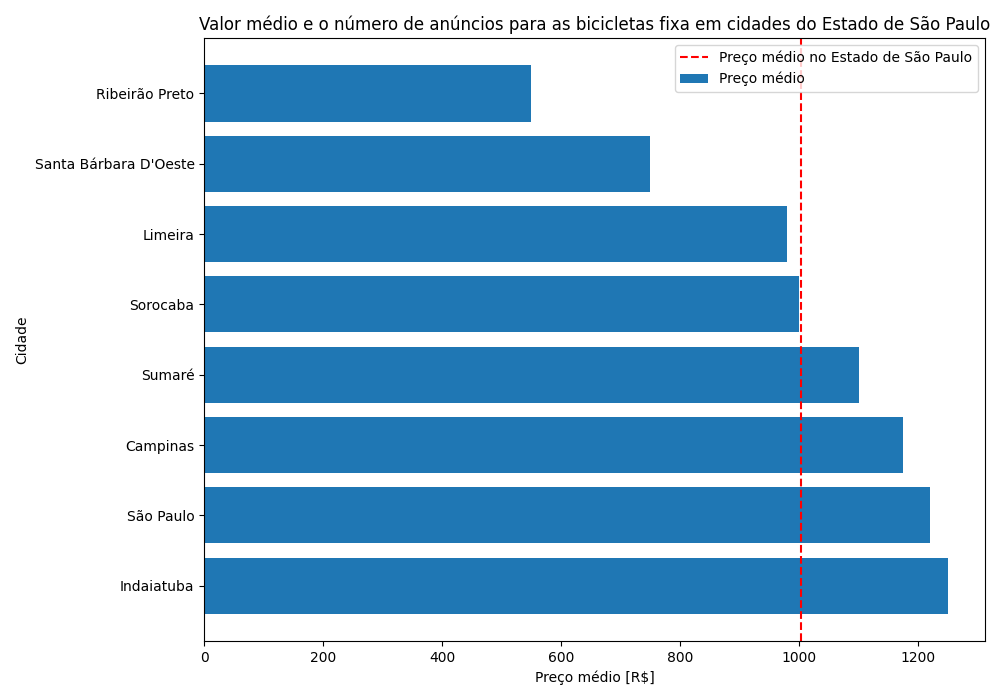
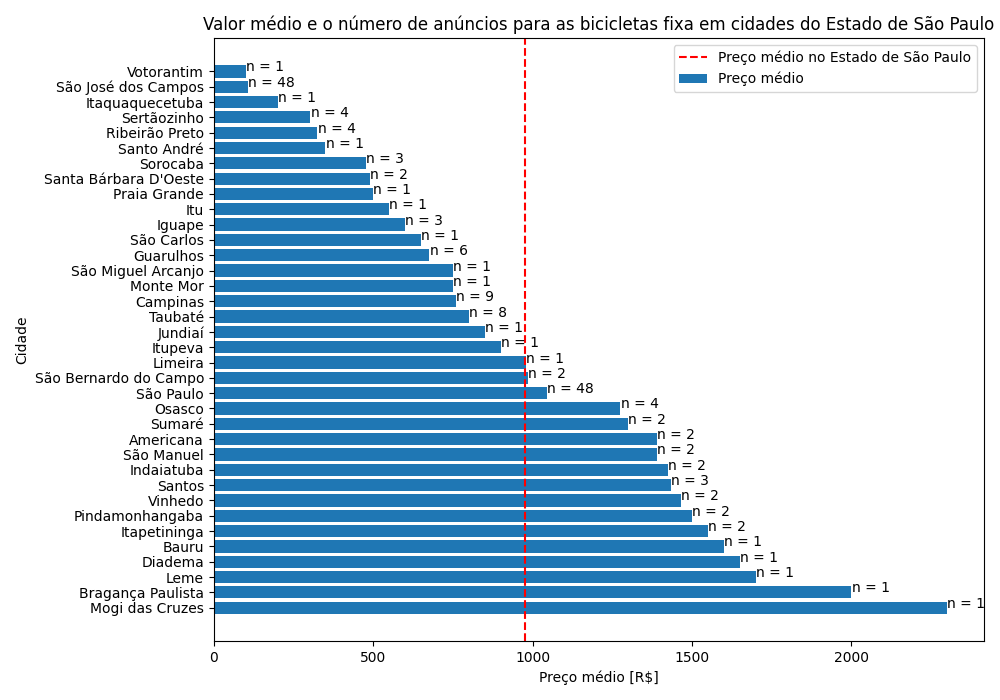
new analysis
new analysis

diff --git a/analysis_bikes.py b/analysis_bikes.py
@@ -2,7 +2,11 @@
 import matplotlib.pyplot as plt
 import numpy as np
 import pandas as pd
-
+"""
+This code is performing several data cleaning and manipulation tasks on a CSV file. It starts by reading in a file with the given name and dropping any duplicate or empty rows.
+Then, it filters the data to only include rows where the "nameBike" column contains any of the specified related words. The cleaned data is then saved to a new CSV file. 
+Additionally, it converts the "valueBike" column to a numeric data type and creates boxplots and bar charts to show statistics and information about the cleaned data. Finally, it exports the data to a markdown file.
+"""
 
 
 def clean_data(name = ""):
@@ -24,11 +28,7 @@ def related_res(data, name, related_words):
     related_words_out  = set(related_words).union(set(related_word_cap).union(set(related_word_upper)) ) 
     related_words_out  = sorted(related_words_out)
 
-    for i in data.index:
-        if any(word_i in data['nameBike'][i] for word_i in related_words_out):
-            continue
-        else:
-            data.drop(i, inplace=True)
+    data = data[data['nameBike'].apply(lambda x: any(word_i in x for word_i in related_words_out))]
 
     data.reset_index(inplace=True,drop=True)
     
@@ -73,6 +73,10 @@ if len(means) > 5:
 
     ax.barh(means.index, means.values, label='Preço médio')
     ax.axvline(means.mean(), color = 'red',ls = 'dashed', label='Preço médio no Estado de São Paulo')
+
+    for i, city in enumerate(means.index):
+        ax.text(means[city] +1, i, "n = "+str(counts_anuncios[city]))
+
     ax.set_xlim(0,ax.get_xlim()[1])
     ax.set_ylabel('Cidade')
     ax.set_xlabel('Preço médio [R$]')
@@ -92,27 +96,3 @@ plt.tight_layout()
 plt.savefig("./images/median_price_of_bike.png")
 # plt.show()
 # exit()
-
-plt.figure(figsize=(10, 7))
-ax = plt.axes()
-
-if len(means) > 5:
-
-    ax.barh(counts_anuncios.index, counts_anuncios.values, label='Número de anúncios por cidade de bike fixa no Estado de São Paulo')
-    ax.set_xlim(0,ax.get_xlim()[1])
-    ax.set_ylabel('Cidade')
-    ax.set_xlabel('Número de anúncios')
-
-else:
-    
-    ax.bar(counts_anuncios.index, counts_anuncios.values, label='Número de anúncios por cidade de bike fixa no Estado de São Paulo')
-    ax.set_ylim(0,ax.get_ylim()[1])
-    ax.set_xlabel('Cidade')
-    ax.set_ylabel('Número de anúncios')
-
-
-ax.set_title('Número de anúncios de bicicletas fixa nas cidades do Estado de São Paulo')
-
-plt.tight_layout()
-plt.savefig("./images/number_of_ads_bycity.png")
-# plt.show()

diff --git a/busca_bike_dados.md b/busca_bike_dados.md
@@ -1,8 +1,114 @@
-| dayPost   | nameBike                                                       | city                  |   valueBike | urlBike                                                                                                                  |
-|:----------|:---------------------------------------------------------------|:----------------------|------------:|:-------------------------------------------------------------------------------------------------------------------------|
-| 02/01     | Oportunidade - Bike single speed "Caixinha" - BAIXOU O PREÇO   | Sorocaba              |        1000 | https://sp.olx.com.br/regiao-de-sorocaba/ciclismo/oportunidade-bike-single-speed-caixinha-baixou-o-preco-1127927801      |
-| 22/01     | Bike fixa Tetrapode                                            | Limeira               |         980 | https://sp.olx.com.br/grande-campinas/ciclismo/bike-fixa-tetrapode-1132508391                                            |
-| 26/12     | Bike fixa usada                                                | São Paulo             |         900 | https://sp.olx.com.br/sao-paulo-e-regiao/ciclismo/bike-fixa-usada-1125830217                                             |
-| 06/01     | Bicicleta alumínio single ou fixa Caloi                        | São Paulo             |         800 | https://sp.olx.com.br/sao-paulo-e-regiao/ciclismo/bicicleta-aluminio-single-ou-fixa-caloi-1130021223                     |
-| 10/01     | Caloi 10 quadro,aro 700 e freio shimano para montar fixed gear | Santa Bárbara D'Oeste |         750 | https://sp.olx.com.br/grande-campinas/ciclismo/caloi-10-quadro-aro-700-e-freio-shimano-para-montar-fixed-gear-1131556869 |
-| 28/12     | Bike fixa                                                      | Ribeirão Preto        |         550 | https://sp.olx.com.br/regiao-de-ribeirao-preto/ciclismo/bike-fixa-1126484097                                             |
+| dayPost   | nameBike                                                                                   | city                  |   valueBike | urlBike                                                                                                                                                              |
+|:----------|:-------------------------------------------------------------------------------------------|:----------------------|------------:|:---------------------------------------------------------------------------------------------------------------------------------------------------------------------|
+| 26/12     | Bike fixa usada                                                                            | São Paulo             |         900 | https://sp.olx.com.br/sao-paulo-e-regiao/ciclismo/bike-fixa-usada-1125830217                                                                                         |
+| 26/12     | Bicicleta Viking aro 26                                                                    | Itupeva               |         900 | https://sp.olx.com.br/sao-paulo-e-regiao/ciclismo/bicicleta-viking-aro-26-1107253088                                                                                 |
+| 22/01     | Suporte de Bike de Teto - Tipo Ventosa                                                     | São Paulo             |         900 | https://sp.olx.com.br/sao-paulo-e-regiao/ciclismo/suporte-de-bike-de-teto-tipo-ventosa-1129968278                                                                    |
+| 03/01     | Bicicleta Infantil VR Track                                                                | Jundiaí               |         850 | https://sp.olx.com.br/sao-paulo-e-regiao/ciclismo/bicicleta-infantil-vr-track-1128667816                                                                             |
+| 06/01     | Bicicleta alumínio single ou fixa Caloi                                                    | São Paulo             |         800 | https://sp.olx.com.br/sao-paulo-e-regiao/ciclismo/bicicleta-aluminio-single-ou-fixa-caloi-1130021223                                                                 |
+| 10/01     | Caloi 10 quadro,aro 700 e freio shimano para montar fixed gear                             | Santa Bárbara D'Oeste |         750 | https://sp.olx.com.br/grande-campinas/ciclismo/caloi-10-quadro-aro-700-e-freio-shimano-para-montar-fixed-gear-1131556869                                             |
+| 18/01     | Vendo Caloi 10 anos 80 Fixa Contra Pedal                                                   | Monte Mor             |         750 | https://sp.olx.com.br/grande-campinas/ciclismo/vendo-caloi-10-anos-80-fixa-contra-pedal-1135328773                                                                   |
+| 08/01     | Suporte de bicicleta Thule Passage 910XT 2 Bike                                            | São Miguel Arcanjo    |         749 | https://sp.olx.com.br/regiao-de-sorocaba/ciclismo/suporte-de-bicicleta-thule-passage-910xt-2-bike-1112428059                                                         |
+| 22/01     | Bicicleta aro 20 Seminova marca Decatlon                                                   | São José dos Campos   |         700 | https://sp.olx.com.br/vale-do-paraiba-e-litoral-norte/ciclismo/bicicleta-aro-20-seminova-marca-decatlon-1128946480                                                   |
+| 21/01     | Sprint 10 ano 82                                                                           | São Carlos            |         650 | https://sp.olx.com.br/regiao-de-ribeirao-preto/ciclismo/sprint-10-ano-82-1133854242                                                                                  |
+| 12/01     | Suporte para bicicleta ABSOLUT (NOVA)                                                      | Iguape                |         600 | https://sp.olx.com.br/baixada-santista-e-litoral-sul/ciclismo/suporte-para-bicicleta-absolut-nova-1132628483                                                         |
+| 12/01     | Suporte para bicicleta ABSOLUT NOVA                                                        | Iguape                |         600 | https://sp.olx.com.br/baixada-santista-e-litoral-sul/ciclismo/suporte-para-bicicleta-absolut-nova-1132629204                                                         |
+| 12/01     | Suporte para bicicleta ABSOLUT (nova)                                                      | Iguape                |         600 | https://sp.olx.com.br/baixada-santista-e-litoral-sul/ciclismo/suporte-para-bicicleta-absolut-nova-1132622586                                                         |
+| 20/01     | Suporte thule                                                                              | Itu                   |         550 | https://sp.olx.com.br/sao-paulo-e-regiao/ciclismo/suporte-thule-1136325540                                                                                           |
+| 28/12     | Bike fixa                                                                                  | Ribeirão Preto        |         550 | https://sp.olx.com.br/regiao-de-ribeirao-preto/ciclismo/bike-fixa-1126484097                                                                                         |
+| 18/01     | Gt Sprint, nova, praticamente não usei                                                     | Campinas              |         520 | https://sp.olx.com.br/grande-campinas/ciclismo/gt-sprint-nova-praticamente-nao-usei-1135196977                                                                       |
+| 12/01     | Bicicleta Beach Bike Caiçara                                                               | Praia Grande          |         500 | https://sp.olx.com.br/baixada-santista-e-litoral-sul/ciclismo/bicicleta-beach-bike-caicara-1114436453                                                                |
+| 29/12     | Suporte p/ 3 Bikes - Transbike Eqmax.                                                      | Osasco                |         500 | https://sp.olx.com.br/sao-paulo-e-regiao/ciclismo/suporte-p-3-bikes-transbike-eqmax-1127108542                                                                       |
+| 16/01     | Caloi 10 Sprint, com quadro aros e pneus tudo novo.                                        | Sertãozinho           |         500 | https://sp.olx.com.br/regiao-de-ribeirao-preto/ciclismo/caloi-10-sprint-com-quadro-aros-e-pneus-tudo-novo-1113430983                                                 |
+| 21/01     | Rack Suporte para Bike 3 Bicicletas Porta Mala ZX Eqmax<br>                                | Ribeirão Preto        |         499 | https://sp.olx.com.br/regiao-de-ribeirao-preto/ciclismo/rack-suporte-para-bike-3-bicicletas-porta-mala-zx-eqmax-br-1128629839                                        |
+| 09/01     | Cadeirinha Bike Bobike Exclusive Tour Fixa Quadro Traseira                                 | Sertãozinho           |         450 | https://sp.olx.com.br/regiao-de-ribeirao-preto/ciclismo/cadeirinha-bike-bobike-exclusive-tour-fixa-quadro-traseira-1099732497                                        |
+| 06/01     | Rolo Fixo de Treino High One                                                               | Campinas              |         450 | https://sp.olx.com.br/grande-campinas/ciclismo/rolo-fixo-de-treino-high-one-1032048106                                                                               |
+| 25/12     | Rolo De Treino Ciclismo Absolute Wild 8 Magnético Aro 27 -29                               | São Paulo             |         420 | https://sp.olx.com.br/sao-paulo-e-regiao/ciclismo/rolo-de-treino-ciclismo-absolute-wild-8-magnetico-aro-27-29-1106501883                                             |
+| 05/01     | Pedal de encaixe Clip Bicicleta Mountain-Bike Shimano M520 Preto Com Taquinhos Sh-51 1277  | São José dos Campos   |         405 | https://sp.olx.com.br/vale-do-paraiba-e-litoral-norte/ciclismo/pedal-de-encaixe-clip-bicicleta-mountain-bike-shimano-m520-preto-com-taquinhos-sh-51-1277-1030409572  |
+| 07/01     | Cubo k7 Campagnolo Mirage                                                                  | São Paulo             |         399 | https://sp.olx.com.br/sao-paulo-e-regiao/ciclismo/cubo-k7-campagnolo-mirage-1130390347                                                                               |
+| 06/01     | Passador Shimano Deore XT M780 I-Spec 2 e 3x10 velocidades - Usado 8862                    | São José dos Campos   |         396 | https://sp.olx.com.br/vale-do-paraiba-e-litoral-norte/ciclismo/passador-shimano-deore-xt-m780-i-spec-2-e-3x10-velocidades-usado-8862-1028488988                      |
+| 21/01     | Transbike / Rack para Bike                                                                 | São José dos Campos   |         390 | https://sp.olx.com.br/vale-do-paraiba-e-litoral-norte/ciclismo/transbike-rack-para-bike-1130281460                                                                   |
+| 22/01     | coroas Miche Advanced 144bcd                                                               | São Paulo             |         380 | https://sp.olx.com.br/sao-paulo-e-regiao/ciclismo/coroas-miche-advanced-144bcd-1127895624                                                                            |
+| 12/01     | Rolo de Treinamento Absolulte Wild 5                                                       | São Paulo             |         370 | https://sp.olx.com.br/sao-paulo-e-regiao/ciclismo/rolo-de-treinamento-absolulte-wild-5-1132791632                                                                    |
+| 22/01     | Rolo De Treino Absolute Wild 8 Bike Magnético Fixo C/ Ajuste                               | São Paulo             |         360 | https://sp.olx.com.br/sao-paulo-e-regiao/ciclismo/rolo-de-treino-absolute-wild-8-bike-magnetico-fixo-c-ajuste-1132584918                                             |
+| 21/01     | SUPORTE PARA BIKE EQMAX DE ENGATE                                                          | Taubaté               |         350 | https://sp.olx.com.br/vale-do-paraiba-e-litoral-norte/ciclismo/suporte-para-bike-eqmax-de-engate-1128449491                                                          |
+| 19/01     | Transbike 3 bicicletas                                                                     | Santo André           |         350 | https://sp.olx.com.br/sao-paulo-e-regiao/ciclismo/transbike-3-bicicletas-1135652506                                                                                  |
+| 11/01     | Rolos de treino novos e semi novos speed e mtb                                             | São José dos Campos   |         349 | https://sp.olx.com.br/vale-do-paraiba-e-litoral-norte/ciclismo/rolos-de-treino-novos-e-semi-novos-speed-e-mtb-1132002718                                             |
+| 22/01     | Eqmax ZX / Transbike / Suporte de Bike Porta Malas                                         | São Paulo             |         330 | https://sp.olx.com.br/sao-paulo-e-regiao/ciclismo/eqmax-zx-transbike-suporte-de-bike-porta-malas-1134934625                                                          |
+| 13/01     | Quadro bike caloi 10                                                                       | São Paulo             |         320 | https://sp.olx.com.br/sao-paulo-e-regiao/ciclismo/quadro-bike-caloi-10-1132930592                                                                                    |
+| 12/01     | Porta Bike Teto Velox Eqmax / semi novo                                                    | São Paulo             |         300 | https://sp.olx.com.br/sao-paulo-e-regiao/ciclismo/porta-bike-teto-velox-eqmax-semi-novo-1125060356                                                                   |
+| 29/12     | Rolo de Treinamento Wild 8 - Absolut                                                       | Osasco                |         300 | https://sp.olx.com.br/sao-paulo-e-regiao/ciclismo/rolo-de-treinamento-wild-8-absolut-1126990780                                                                      |
+| 05/01     | Mesa Gran Compe Dia Compe Standard                                                         | São Paulo             |         300 | https://sp.olx.com.br/sao-paulo-e-regiao/ciclismo/mesa-gran-compe-dia-compe-standard-1111601102                                                                      |
+| 04/01     | Rolo de treino fixo Alt Cicle com regulagem para bicicleta Speed e MTB                     | Taubaté               |         300 | https://sp.olx.com.br/vale-do-paraiba-e-litoral-norte/ciclismo/rolo-de-treino-fixo-alt-cicle-com-regulagem-para-bicicleta-speed-e-mtb-1129026706                     |
+| 10/01     | Suporte Cavalete para Manutenção de Bikes Portátil com Bandeja para Ferramentas 6575       | São José dos Campos   |         300 | https://sp.olx.com.br/vale-do-paraiba-e-litoral-norte/ciclismo/suporte-cavalete-para-manutencao-de-bikes-portatil-com-bandeja-para-ferramentas-6575-923933472        |
+| 22/12     | Suporte para bike de engate semi novo!!                                                    | Sorocaba              |         280 | https://sp.olx.com.br/regiao-de-sorocaba/ciclismo/suporte-para-bike-de-engate-semi-novo-1124772659                                                                   |
+| 10/01     | Pedal de encaixe Clip Bike Mountain-Bike Wellgo M919 Preto C/ Taquinhos tipo Shimano 5439  | São José dos Campos   |         271 | https://sp.olx.com.br/vale-do-paraiba-e-litoral-norte/ciclismo/pedal-de-encaixe-clip-bike-mountain-bike-wellgo-m919-preto-c-taquinhos-tipo-shimano-5439-924773056    |
+| 27/12     | Rolo de treino                                                                             | Santa Bárbara D'Oeste |         230 | https://sp.olx.com.br/grande-campinas/ciclismo/rolo-de-treino-1120441834                                                                                             |
+| 12/01     | Capacete Ciclismo Preto Bike Mtb Specialized Ajustável                                     | Itaquaquecetuba       |         200 | https://sp.olx.com.br/sao-paulo-e-regiao/ciclismo/capacete-ciclismo-preto-bike-mtb-specialized-ajustavel-1132608726                                                  |
+| 22/01     | Suporte traseiro engate 2 bicicletas / bikes                                               | Ribeirão Preto        |         190 | https://sp.olx.com.br/regiao-de-ribeirao-preto/ciclismo/suporte-traseiro-engate-2-bicicletas-bikes-1128033681                                                        |
+| 11/01     | Pedal de encaixe Clip Mountain-Bike Vicini MT530 Preto Com Taquinhos tipo Shiman (9106)    | São José dos Campos   |         180 | https://sp.olx.com.br/vale-do-paraiba-e-litoral-norte/ciclismo/pedal-de-encaixe-clip-mountain-bike-vicini-mt530-preto-com-taquinhos-tipo-shiman-9106-945762338       |
+| 22/01     | Cadeirinha Infantil Bicicleta Kalf Baby Bike Dianteira Preta                               | São Paulo             |         180 | https://sp.olx.com.br/sao-paulo-e-regiao/ciclismo/cadeirinha-infantil-bicicleta-kalf-baby-bike-dianteira-preta-1133630520                                            |
+| 03/01     | Cadeado U-Lock + Cabo 900 para bicicleta                                                   | Guarulhos             |         180 | https://sp.olx.com.br/sao-paulo-e-regiao/ciclismo/cadeado-u-lock-cabo-900-para-bicicleta-1128398836                                                                  |
+| 10/01     | GPS Ciclocomputador para Bikes Absolute Nero Compatível com Strava 7229                    | São José dos Campos   |         180 | https://sp.olx.com.br/vale-do-paraiba-e-litoral-norte/ciclismo/gps-ciclocomputador-para-bikes-absolute-nero-compativel-com-strava-7229-935306727                     |
+| 26/12     | Transbike para caçamba de pickup / caminhonete / utilitário                                | São José dos Campos   |         180 | https://sp.olx.com.br/vale-do-paraiba-e-litoral-norte/ciclismo/transbike-para-cacamba-de-pickup-caminhonete-utilitario-1118471280                                    |
+| 10/01     | Rolos de treino speed mtb 12x frete todo Brasil                                            | São José dos Campos   |         169 | https://sp.olx.com.br/vale-do-paraiba-e-litoral-norte/ciclismo/rolos-de-treino-speed-mtb-12x-frete-todo-brasil-1131382689                                            |
+| 09/01     | Suporte Rack de Teto Para Bike Bicicleta                                                   | São Paulo             |         157 | https://sp.olx.com.br/sao-paulo-e-regiao/ciclismo/suporte-rack-de-teto-para-bike-bicicleta-1113141983                                                                |
+| 22/01     | Pedal clip                                                                                 | Sorocaba              |         150 | https://sp.olx.com.br/regiao-de-sorocaba/ciclismo/pedal-clip-1128128141                                                                                              |
+| 22/01     | Ferramenta Park Tool                                                                       | São Paulo             |         150 | https://sp.olx.com.br/sao-paulo-e-regiao/ciclismo/ferramenta-park-tool-1129793599                                                                                    |
+| 22/01     | Transbike FIRE 3 bikes                                                                     | São Paulo             |         150 | https://sp.olx.com.br/sao-paulo-e-regiao/ciclismo/transbike-fire-3-bikes-1136945658                                                                                  |
+| 07/01     | Freio vbreak Shimano Deore M600                                                            | São Paulo             |         149 | https://sp.olx.com.br/sao-paulo-e-regiao/ciclismo/freio-vbreak-shimano-deore-m600-1130396465                                                                         |
+| 22/01     | Farol Bicicleta De Cabeça Alta Potencia B-max 809                                          | São Paulo             |         140 | https://sp.olx.com.br/sao-paulo-e-regiao/ciclismo/farol-bicicleta-de-cabeca-alta-potencia-b-max-809-1131359364                                                       |
+| 07/01     | Banco Selle Royal                                                                          | São Paulo             |         139 | https://sp.olx.com.br/sao-paulo-e-regiao/ciclismo/banco-selle-royal-1130404739                                                                                       |
+| 03/01     | Lanterna De Cabeça E Farol Bike + Alerta Traseiro B-max                                    | Sertãozinho           |         130 | https://sp.olx.com.br/regiao-de-ribeirao-preto/ciclismo/lanterna-de-cabeca-e-farol-bike-alerta-traseiro-b-max-1121774506                                             |
+| 18/01     | Lanterna De Cabeça E Farol Bike + Alerta Traseiro B-max                                    | Sertãozinho           |         130 | https://sp.olx.com.br/regiao-de-ribeirao-preto/ciclismo/lanterna-de-cabeca-e-farol-bike-alerta-traseiro-b-max-1127138793                                             |
+| 22/01     | Coroa 60t                                                                                  | Taubaté               |         125 | https://sp.olx.com.br/vale-do-paraiba-e-litoral-norte/ciclismo/coroa-60t-1137061815                                                                                  |
+| 10/01     | Farol para Bikes Jws WS-112W com Super Led Cree T6 Bateria Recarregável de 6 células 7639  | São José dos Campos   |         125 | https://sp.olx.com.br/vale-do-paraiba-e-litoral-norte/ciclismo/farol-para-bikes-jws-ws-112w-com-super-led-cree-t6-bateria-recarregavel-de-6-celulas-7639-930587776   |
+| 22/01     | 03 rolos treino bike - roller training                                                     | São Paulo             |         120 | https://sp.olx.com.br/sao-paulo-e-regiao/ciclismo/03-rolos-treino-bike-roller-training-1134030786                                                                    |
+| 21/01     | Suporte Transbike Bike Mala Com Alça Para 2 Bicicletas                                     | Votorantim            |         100 | https://sp.olx.com.br/regiao-de-sorocaba/ciclismo/suporte-transbike-bike-mala-com-alca-para-2-bicicletas-1135667032                                                  |
+| 13/01     | 10 Cartuchos CO2 - 16g Bike MTB Speed - NOVO!  c/ Nota Fiscal                              | Campinas              |         100 | https://sp.olx.com.br/grande-campinas/ciclismo/10-cartuchos-co2-16g-bike-mtb-speed-novo-c-nota-fiscal-1114524769                                                     |
+| 10/01     | Lanterna WS-205 800 Lúmens e Sinalizador Led WS-207 Vermelho Amarelo Recarregável 7605     | São José dos Campos   |          87 | https://sp.olx.com.br/vale-do-paraiba-e-litoral-norte/ciclismo/lanterna-ws-205-800-lumens-e-sinalizador-led-ws-207-vermelho-amarelo-recarregavel-7605-938805621      |
+| 10/01     | Farol Bikes Super Led Cree T6 Bateria Recarregável 4 células Zoom e Foco Ajustável 6607    | São José dos Campos   |          81 | https://sp.olx.com.br/vale-do-paraiba-e-litoral-norte/ciclismo/farol-bikes-super-led-cree-t6-bateria-recarregavel-4-celulas-zoom-e-foco-ajustavel-6607-910556925     |
+| 21/01     | Mochila de Hidratação Atrio Sprint 2 litros                                                | São Paulo             |          80 | https://sp.olx.com.br/sao-paulo-e-regiao/ciclismo/mochila-de-hidratacao-atrio-sprint-2-litros-1135601570                                                             |
+| 26/12     | Kit com 3 Luzes de Emergência para ciclista                                                | Guarulhos             |          80 | https://sp.olx.com.br/sao-paulo-e-regiao/ciclismo/kit-com-3-luzes-de-emergencia-para-ciclista-1125922360                                                             |
+| 10/01     | Kit Lanterna Dianteira Bike WS-205 e Sinalizador Traseiro JY-918 JWS Recarregável 7607     | São José dos Campos   |          80 | https://sp.olx.com.br/vale-do-paraiba-e-litoral-norte/ciclismo/kit-lanterna-dianteira-bike-ws-205-e-sinalizador-traseiro-jy-918-jws-recarregavel-7607-945752121      |
+| 13/01     | Bomba CO2 High One p/ Bike - NOVO! Nunca usado. c/ Nota Fiscal (Não acompanha cartucho)    | Campinas              |          80 | https://sp.olx.com.br/grande-campinas/ciclismo/bomba-co2-high-one-p-bike-novo-nunca-usado-c-nota-fiscal-nao-acompanha-cartucho-1114518310                            |
+| 26/12     | Corta Vento para Ciclista - BM Decatlon (Tamanho M)                                        | Guarulhos             |          80 | https://sp.olx.com.br/sao-paulo-e-regiao/ciclismo/corta-vento-para-ciclista-bm-decatlon-tamanho-m-1125920890                                                         |
+| 11/01     | Lanterna Farol Dianteiro para Bike Jws JY-263 Super Led Preto Recarregável 5377            | São José dos Campos   |          72 | https://sp.olx.com.br/vale-do-paraiba-e-litoral-norte/ciclismo/lanterna-farol-dianteiro-para-bike-jws-jy-263-super-led-preto-recarregavel-5377-923521572             |
+| 23/12     | coroa bcd110 39t                                                                           | São Bernardo do Campo |          70 | https://sp.olx.com.br/sao-paulo-e-regiao/ciclismo/coroa-bcd110-39t-1125265682                                                                                        |
+| 10/01     | Bermuda ciclismo barbedo                                                                   | São José dos Campos   |          70 | https://sp.olx.com.br/vale-do-paraiba-e-litoral-norte/ciclismo/bermuda-ciclismo-barbedo-1131646784                                                                   |
+| 10/01     | Bagageiro Caloi Easy Rider                                                                 | São Paulo             |          60 | https://sp.olx.com.br/sao-paulo-e-regiao/ciclismo/bagageiro-caloi-easy-rider-1131656987                                                                              |
+| 22/01     | Bermuda Ciclismo Bike Barbedo Short Mtb Speed<br><br>                                      | Ribeirão Preto        |          59 | https://sp.olx.com.br/regiao-de-ribeirao-preto/ciclismo/bermuda-ciclismo-bike-barbedo-short-mtb-speed-br-br-1132583562                                               |
+| 24/12     | Compartilhar:  0 Kit Farol + Lanterna Traseira led Recarregável para bicicleta             | São José dos Campos   |          55 | https://sp.olx.com.br/vale-do-paraiba-e-litoral-norte/ciclismo/compartilhar-0-kit-farol-lanterna-traseira-led-recarregavel-para-bicicleta-1106161831                 |
+| 11/01     | Pedivela Triplo Bicicleta Mtb Absolute 170mm Preto 170 42/34/24 Dentes (9080)              | São José dos Campos   |          54 | https://sp.olx.com.br/vale-do-paraiba-e-litoral-norte/ciclismo/pedivela-triplo-bicicleta-mtb-absolute-170mm-preto-170-42-34-24-dentes-9080-1028116814                |
+| 10/01     | Ferramenta de Reparo Macarrão Para Pneu Tubeless para Bike com Agulha ArStop 3776          | São José dos Campos   |          52 | https://sp.olx.com.br/vale-do-paraiba-e-litoral-norte/ciclismo/ferramenta-de-reparo-macarrao-para-pneu-tubeless-para-bike-com-agulha-arstop-3776-909433819           |
+| 11/01     | Farol Bike Led com Buzina Recarregável [Vermelho]                                          | São José dos Campos   |          50 | https://sp.olx.com.br/vale-do-paraiba-e-litoral-norte/ciclismo/farol-bike-led-com-buzina-recarregavel-vermelho-1114028463                                            |
+| 10/01     | Bolsa Porta Celular Para Guidão de Bicicleta B-Soul com Visor até 6,4 polegadas 9011       | São José dos Campos   |          50 | https://sp.olx.com.br/vale-do-paraiba-e-litoral-norte/ciclismo/bolsa-porta-celular-para-guidao-de-bicicleta-b-soul-com-visor-ate-6-4-polegadas-9011-1032023650       |
+| 14/01     | Farol Bike Led com Buzina Recarregável 3 modos de funcionamento [Preto]                    | São José dos Campos   |          50 | https://sp.olx.com.br/vale-do-paraiba-e-litoral-norte/ciclismo/farol-bike-led-com-buzina-recarregavel-3-modos-de-funcionamento-preto-1114776993                      |
+| 14/01     | Farol Bike Led com Buzina Recarregável [Azul]                                              | São José dos Campos   |          50 | https://sp.olx.com.br/vale-do-paraiba-e-litoral-norte/ciclismo/farol-bike-led-com-buzina-recarregavel-azul-1114783402                                                |
+| 10/01     | Sinalizador Led 70 Lumens Jws WS-096 Recarregável USB Led Vermelho/Branco 6 Modos 7127     | São José dos Campos   |          49 | https://sp.olx.com.br/vale-do-paraiba-e-litoral-norte/ciclismo/sinalizador-led-70-lumens-jws-ws-096-recarregavel-usb-led-vermelho-branco-6-modos-7127-1030861783     |
+| 27/12     | Farol Bike Led com Buzina Recarregável 250 Lumes [Verde]                                   | São José dos Campos   |          45 | https://sp.olx.com.br/vale-do-paraiba-e-litoral-norte/ciclismo/farol-bike-led-com-buzina-recarregavel-250-lumes-verde-1119649414                                     |
+| 06/01     | Suporte Avançado de Bike para GPS Garmin Edge Bryton Cateye e Câmera GoPro 7157            | São José dos Campos   |          45 | https://sp.olx.com.br/vale-do-paraiba-e-litoral-norte/ciclismo/suporte-avancado-de-bike-para-gps-garmin-edge-bryton-cateye-e-camera-gopro-7157-912081167             |
+| 28/12     | Farol Bike Led com Buzina Recarregável Iluminação Noturna [Laranja]                        | São José dos Campos   |          44 | https://sp.olx.com.br/vale-do-paraiba-e-litoral-norte/ciclismo/farol-bike-led-com-buzina-recarregavel-iluminacao-noturna-laranja-1119110677                          |
+| 10/01     | Sinalizador com Led 100 Lumens Jws WS-212 Recarregável USB Led Vermelho e Branco 5365      | São José dos Campos   |          44 | https://sp.olx.com.br/vale-do-paraiba-e-litoral-norte/ciclismo/sinalizador-com-led-100-lumens-jws-ws-212-recarregavel-usb-led-vermelho-e-branco-5365-924800512       |
+| 10/01     | Suporte De Parede Horizontal Para Bike Mtb Ou Speed                                        | São Paulo             |          40 | https://sp.olx.com.br/sao-paulo-e-regiao/ciclismo/suporte-de-parede-horizontal-para-bike-mtb-ou-speed-1131375552                                                     |
+| 19/01     | Lanterna Traseira Bike Sinalizador Bicicleta Farol Led Luz Segurança Super Potente         | São José dos Campos   |          39 | https://sp.olx.com.br/vale-do-paraiba-e-litoral-norte/ciclismo/lanterna-traseira-bike-sinalizador-bicicleta-farol-led-luz-seguranca-super-potente-1135645166         |
+| 10/01     | Bolsa de Banco Selim para Bicicleta Marca B-Soul Para Ferramentas e Acessórios 9021        | São José dos Campos   |          36 | https://sp.olx.com.br/vale-do-paraiba-e-litoral-norte/ciclismo/bolsa-de-banco-selim-para-bicicleta-marca-b-soul-para-ferramentas-e-acessorios-9021-1028440067        |
+| 10/01     | Prolongador de Válvula Presta para Câmara de Ar Bicicleta Road 70mm 8835                   | São José dos Campos   |          35 | https://sp.olx.com.br/vale-do-paraiba-e-litoral-norte/ciclismo/prolongador-de-valvula-presta-para-camara-de-ar-bicicleta-road-70mm-8835-1048088672                   |
+| 10/01     | Pezinho Para Bike Descanso Lateral JWS Com Regulagem Preto Aro 20 até 29 7361              | São José dos Campos   |          33 | https://sp.olx.com.br/vale-do-paraiba-e-litoral-norte/ciclismo/pezinho-para-bike-descanso-lateral-jws-com-regulagem-preto-aro-20-ate-29-7361-931258599               |
+| 13/01     | 11 Chaves Canivete Ferramentas Bike C/Extrator De Corrente                                 | Campinas              |          30 | https://sp.olx.com.br/grande-campinas/ciclismo/11-chaves-canivete-ferramentas-bike-c-extrator-de-corrente-1114640526                                                 |
+| 04/01     | Sinalizador Dianteiro e Traseiro Absolute JY-267 para Bike Silicone com 2 Leds Branco Verm | São José dos Campos   |          29 | https://sp.olx.com.br/vale-do-paraiba-e-litoral-norte/ciclismo/sinalizador-dianteiro-e-traseiro-absolute-jy-267-para-bike-silicone-com-2-leds-branco-verm-1128918966 |
+| 10/01     | Suporte de Celular Bike e Moto Fixo no Guidão com Touchscreen Prova D'agua até 6,5" 8355   | São José dos Campos   |          27 | https://sp.olx.com.br/vale-do-paraiba-e-litoral-norte/ciclismo/suporte-de-celular-bike-e-moto-fixo-no-guidao-com-touchscreen-prova-d-agua-ate-6-5-8355-996207404     |
+| 10/01     | Sinalizador com Led Jws Ws-207 Recarregável usb 7 Leds Vermelho Amarelo 4 Modos 7133       | São José dos Campos   |          26 | https://sp.olx.com.br/vale-do-paraiba-e-litoral-norte/ciclismo/sinalizador-com-led-jws-ws-207-recarregavel-usb-7-leds-vermelho-amarelo-4-modos-7133-926858217        |
+| 06/01     | Sinalizador com Led Jws WS-211 Recarregável USB 8 Leds Pisca Vermelho 5 Super Forte 7129   | São José dos Campos   |          26 | https://sp.olx.com.br/vale-do-paraiba-e-litoral-norte/ciclismo/sinalizador-com-led-jws-ws-211-recarregavel-usb-8-leds-pisca-vermelho-5-super-forte-7129-937280899    |
+| 26/12     | 2 Cabos de Aço de Freio de Bicicleta Bike / Cabos de aço - Excelente Qualidade             | Guarulhos             |          25 | https://sp.olx.com.br/sao-paulo-e-regiao/ciclismo/2-cabos-de-aco-de-freio-de-bicicleta-bike-cabos-de-aco-excelente-qualidade-1125928703                              |
+| 10/01     | Abraçadeira Para Passadores de Marchas Sram Trigger Shifter XX1 X01 X0 X9 X7 Eagle 5665    | São José dos Campos   |          24 | https://sp.olx.com.br/vale-do-paraiba-e-litoral-norte/ciclismo/abracadeira-para-passadores-de-marchas-sram-trigger-shifter-xx1-x01-x0-x9-x7-eagle-5665-1039262172    |
+| 05/01     | Chave Ferramenta JWS Extrator de Movimento Central Hollowtech e Chave de Cassete 7633      | São José dos Campos   |          23 | https://sp.olx.com.br/vale-do-paraiba-e-litoral-norte/ciclismo/chave-ferramenta-jws-extrator-de-movimento-central-hollowtech-e-chave-de-cassete-7633-938812027       |
+| 10/01     | Chave Jws Instalação Movimento Central Hollowtech Shimano Truvativ Fsa Megaexo 7363        | São José dos Campos   |          23 | https://sp.olx.com.br/vale-do-paraiba-e-litoral-norte/ciclismo/chave-jws-instalacao-movimento-central-hollowtech-shimano-truvativ-fsa-megaexo-7363-914853771         |
+| 10/01     | Rodinha Lateral para Bicicleta Infantil Aro 20 Roda de Equilíbrio 8900                     | São José dos Campos   |          23 | https://sp.olx.com.br/vale-do-paraiba-e-litoral-norte/ciclismo/rodinha-lateral-para-bicicleta-infantil-aro-20-roda-de-equilibrio-8900-1029032559                     |
+| 10/01     | Sinalizador Diant e Tras Absolute JY-267 para Bike Silicone c 2 Leds Branco Vermelho 6985  | São José dos Campos   |          23 | https://sp.olx.com.br/vale-do-paraiba-e-litoral-norte/ciclismo/sinalizador-diant-e-tras-absolute-jy-267-para-bike-silicone-c-2-leds-branco-vermelho-6985-926390052   |
+| 10/01     | Gancheira Reposição Quadro Vicinitech Space Pro Kona Caloi Sprint 20 e Strada GTS R5 7377  | São José dos Campos   |          22 | https://sp.olx.com.br/vale-do-paraiba-e-litoral-norte/ciclismo/gancheira-reposicao-quadro-vicinitech-space-pro-kona-caloi-sprint-20-e-strada-gts-r5-7377-1031604984  |
+| 10/01     | Sinalizador Diant Traseiro Vortex Bike Silicone Luz Noturna 2 Leds Branco e Vermelho 7077  | São José dos Campos   |          21 | https://sp.olx.com.br/vale-do-paraiba-e-litoral-norte/ciclismo/sinalizador-diant-traseiro-vortex-bike-silicone-luz-noturna-2-leds-branco-e-vermelho-7077-930648229   |
+| 06/01     | Rodinha Lateral para Bicicleta Infantil Aro 16 Roda de Equilíbrio 8652                     | São José dos Campos   |          21 | https://sp.olx.com.br/vale-do-paraiba-e-litoral-norte/ciclismo/rodinha-lateral-para-bicicleta-infantil-aro-16-roda-de-equilibrio-8652-1030404483                     |
+| 10/01     | Suporte de Celular Veicular Carro Articulado com Ventosa para Painel ou Vidro 8365         | São José dos Campos   |          20 | https://sp.olx.com.br/vale-do-paraiba-e-litoral-norte/ciclismo/suporte-de-celular-veicular-carro-articulado-com-ventosa-para-painel-ou-vidro-8365-995892437          |
+| 21/01     | Fixador de Pezinho de Bike                                                                 | Taubaté               |          20 | https://sp.olx.com.br/vale-do-paraiba-e-litoral-norte/ciclismo/fixador-de-pezinho-de-bike-1135591000                                                                 |
+| 10/01     | Sinalizador Diant e Tras Jws JY009 Bike Silicone Luz Noturna 2 Leds Branco e Vermelho 7131 | São José dos Campos   |          17 | https://sp.olx.com.br/vale-do-paraiba-e-litoral-norte/ciclismo/sinalizador-diant-e-tras-jws-jy009-bike-silicone-luz-noturna-2-leds-branco-e-vermelho-7131-931691043  |
+| 05/01     | Sinalizador Diant e Tras Epic Line EPL-2215 Bike Luz Noturna 2 Leds Branco e Vermelho 7509 | São José dos Campos   |          17 | https://sp.olx.com.br/vale-do-paraiba-e-litoral-norte/ciclismo/sinalizador-diant-e-tras-epic-line-epl-2215-bike-luz-noturna-2-leds-branco-e-vermelho-7509-935767055  |

diff --git a/README.md b/README.md
@@ -52,7 +52,5 @@ The result of ads with a value lower than the average value of ads in the state 
 ![graphnumber](/images/median_price_of_bike.png)
 
 
-![graph1](/images/number_of_ads_bycity.png)
-
 ## References
 [!Freecodecamp.org - Web scraping python tutorial](https://www.freecodecamp.org/news/web-scraping-python-tutorial-how-to-scrape-data-from-a-website)
